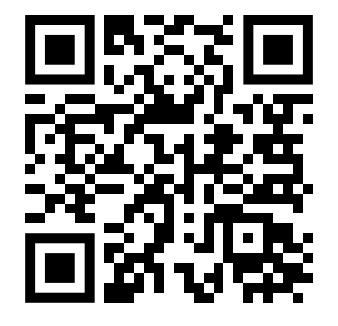
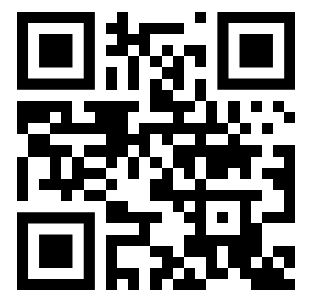
update readme

diff --git a/README.md b/README.md
@@ -6,8 +6,9 @@ Audio geo-guessing game
 - **Data-prep** - Scrape radiogarden API for radio stations and format data for frontend.
 - **Frontend** - Vue app that plays radio stations and asks user to guess the location of the station.
 
-Try online [here](https://dustinmichels.github.io/geo-hearo/)
+Try online [here](http://geohearo.com/)
 
+Or open on mobile:
 ![QR code](img/qr.png)
 
 This is inspired by other geo guessing games:
